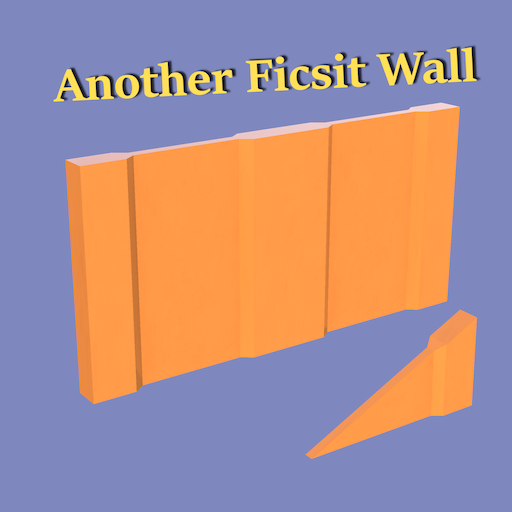
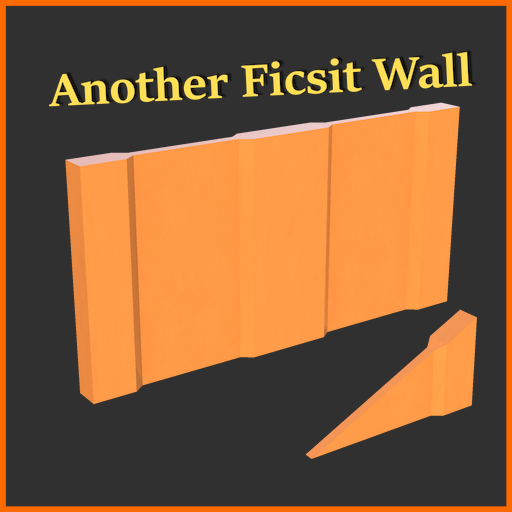
Update for 1.0 Release Version

diff --git a/README.md b/README.md
@@ -1,2 +1,55 @@
-# AnotherFicsitWall
-A mod for Satisfactory
+# Another Ficsit Wall
+
+This Mod adds the old Ficsit Wall before it was changed with Update 5, but now with the twist that both sides are the same.
+
+## Features
+
+ - The __Old Ficsit Material__ can be found in the AWESOME Shop like the other wall materials.
+ - Supports all vanilla Wall shapes and there materials.
+ - Supports coloring/swatches like the vanilla walls.
+
+### Additional Packs
+
+Currently this Mod has 3 additional Packs whitch are found in the Walls category of the AWESOME Shop.
+ 
+ - __Additional Old Ficsit Walls:__
+   - _8x2 Basic Wall_
+   - _4x1 Half Wall_
+   - _4x2 Half Wall_
+   - _4x4 Half Wall_
+   
+   - _4x4 Half Conveyor Wall x1_
+   - _4x4 Half Center Door Wall_
+ 
+ - __Additional Old Ficsit Up/Down Ramp Walls:__
+   - _4x1 Half Ramp Wall_
+   - _4x2 Half Ramp Wall_
+   - _4x4 Half Ramp Wall_
+   - _4x4 Half Ramp Wall_
+   
+   - _4x1 Inverted Half Ramp Wall_
+   - _4x2 Inverted Half Ramp Wall_
+   - _4x4 Inverted Half Ramp Wall_
+   - _4x4 Inverted Half Ramp Wall_
+   
+ - __Additional Old Ficsit Tilted Walls:__
+   - _4x4 Half Tilted Wall_
+   - _4x8 Half Tilted Wall_
+   - _4x8 Half Steep Tilted Wall_
+   - _8x8 Steep Titled Wall_
+   
+   - _8x4 Tilted Convex Wall_
+   - _8x8 Tilted Convex Wall_
+
+### Todo
+
+The basics of the Mod are done but I maybe implement some other missing Elements like:
+
+ - _4x4 Concave Wall_
+ - _4x8 Concave Wall_
+ - Changes to the _16x8 Big Garage Door_ 
+
+For these changes/additions i need to get better with Blender and im kinda wanna do another Mod first before i return to this.
+
+Also i have in mind to integrate other wall Mods, so that all Walls are easy interchangeable (except the ones from my Additional Packs). Shouldnt be hard but a bit time consuming.
+ 
